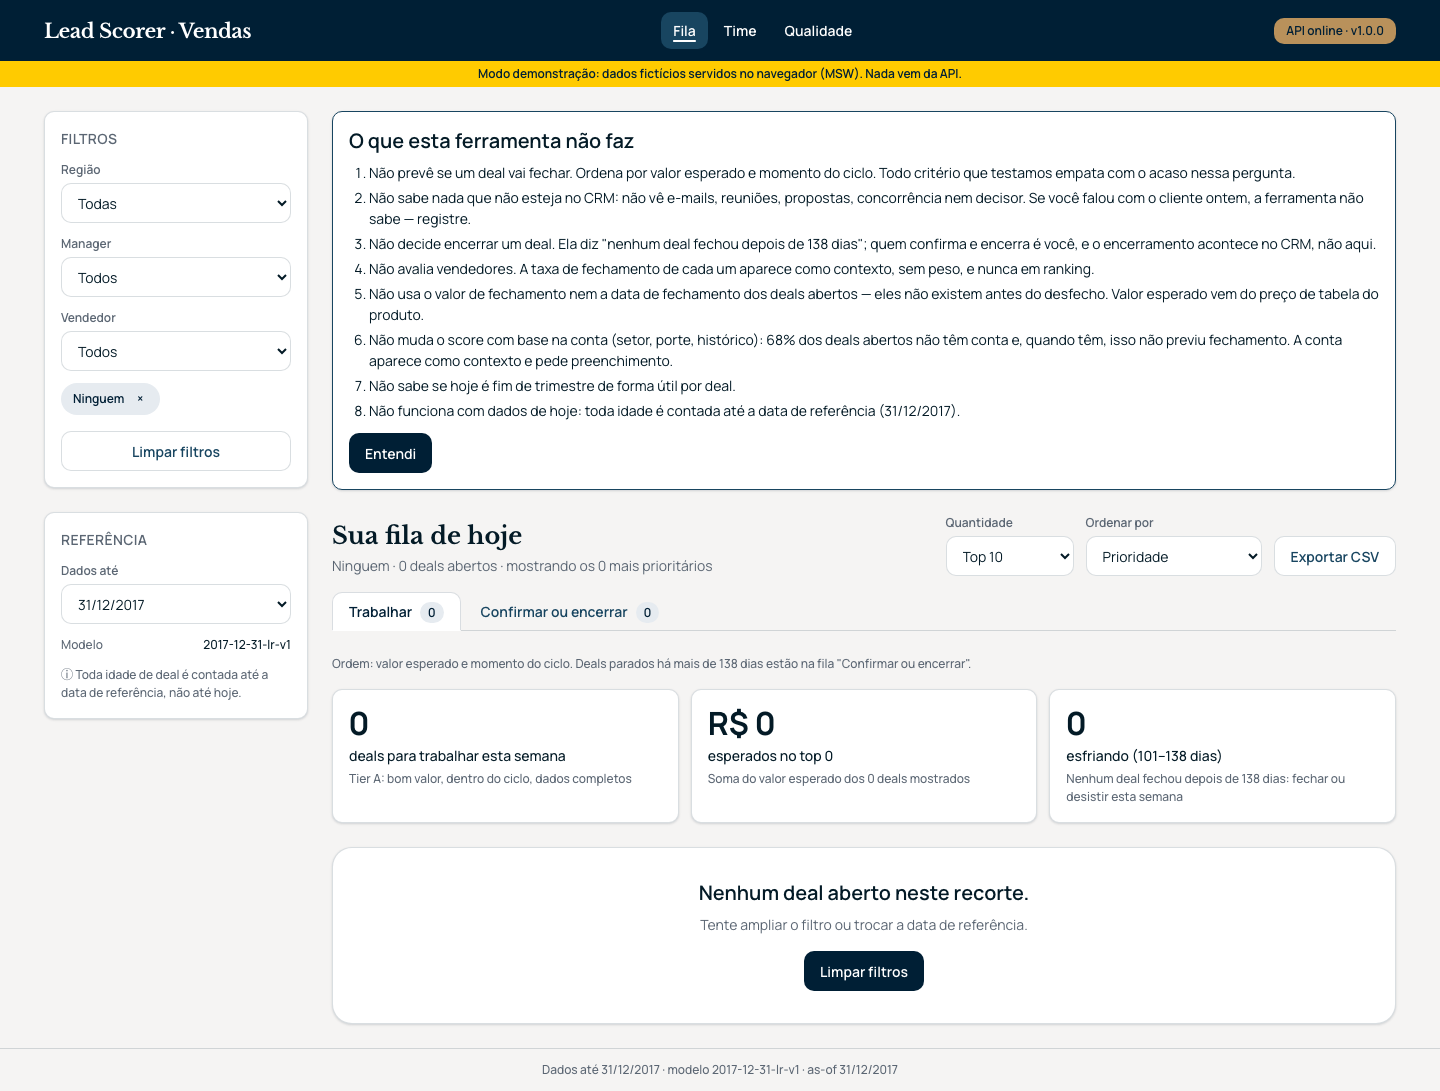
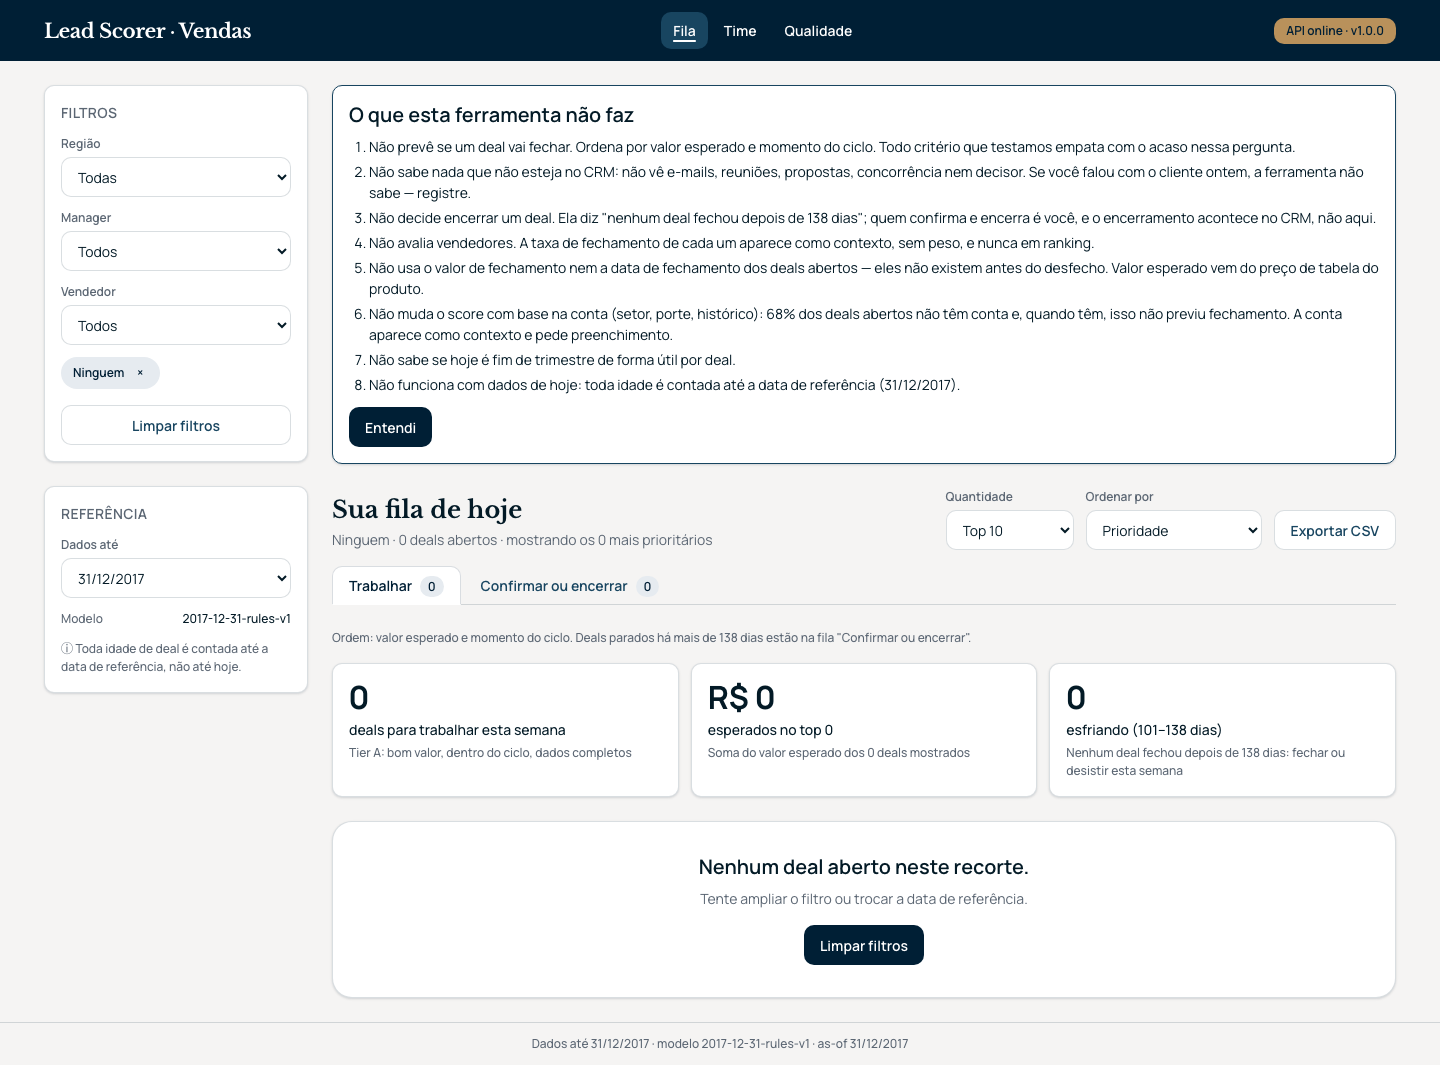
feat(web): real-mode screenshot capture; recapture screens against the API
npm run screenshots:real starts Vite without the MSW mock and proxies /api to :8000, uses a real deal id for the drawer and skips the artifacts-missing state (mock only). Six screenshots now show the gold partition as_of=2017-12-31 and model 2017-12-31-rules-v1.

diff --git a/submissions/bernardo-couto/solution/web/README.md b/submissions/bernardo-couto/solution/web/README.md
@@ -15,7 +15,8 @@ npm run lint         # eslint + prettier
 npm run typecheck    # tsc -b
 npm run build        # dist/ (o modo mock nunca entra no bundle)
 npm run gen:api      # regenera src/api/schema.d.ts (ou `make gen-api` em solution/, sem API rodando)
-npm run screenshots  # captura as telas em modo mock para process-log/screenshots (Playwright)
+npm run screenshots       # captura as telas em modo mock para process-log/screenshots (Playwright)
+npm run screenshots:real  # idem contra a API real em :8000 (docker compose up); pula o estado "artefatos ausentes"
 ```
 
 ## Modo demonstração (`dev:mock`)
